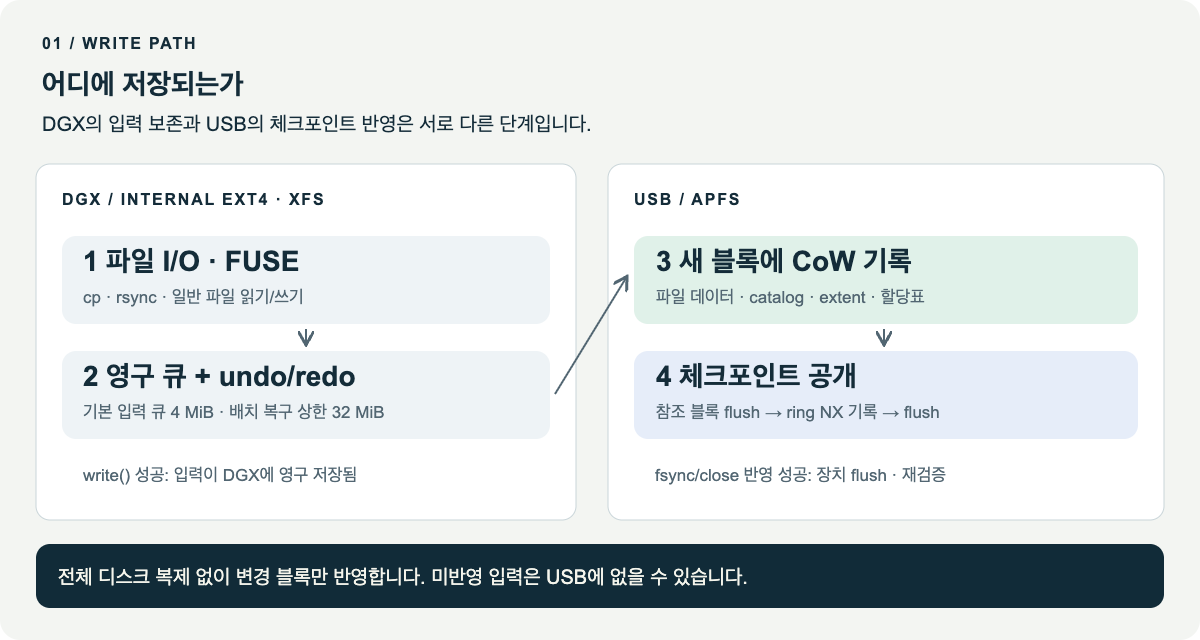
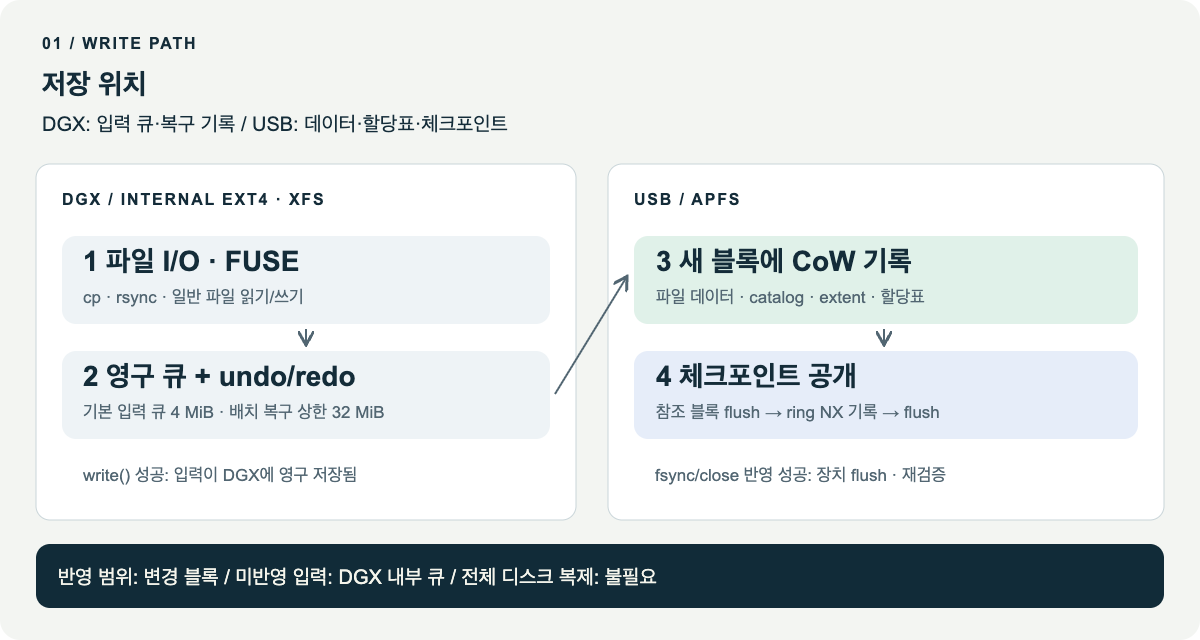
Use manual terminology throughout LAPFS documentation

Changed region(s): [[0.0308, 0.0938, 0.4933, 0.2188], [0.0308, 0.875, 0.6167, 0.9375]]

diff --git a/docs/architecture.html b/docs/architecture.html
@@ -1,6 +1,6 @@
 <!doctype html>
 <html lang="ko">
-<head><meta charset="utf-8"><meta name="viewport" content="width=device-width,initial-scale=1"><meta name="color-scheme" content="light"><title>LAPFS — 체크포인트로 이해하는 쓰기</title>
+<head><meta charset="utf-8"><meta name="viewport" content="width=device-width,initial-scale=1"><meta name="color-scheme" content="light"><title>LAPFS — 쓰기 구조 매뉴얼</title>
 <style>
 :root{--ink:#142c39;--muted:#526672;--line:#ccd6d9;--paper:#f3f5f2;--teal:#14634e;--mint:#e0f1e9;--blue:#244b87;--pale:#e6edf9;--amber:#845a17;--sand:#fbecd1}*{box-sizing:border-box}body{margin:0;background:var(--paper);color:var(--ink);font-family:-apple-system,BlinkMacSystemFont,"Segoe UI","Apple SD Gothic Neo",Arial,sans-serif;line-height:1.65}a{color:var(--blue);text-underline-offset:4px}button{font:inherit}button,a{touch-action:manipulation}button:focus-visible,a:focus-visible{outline:3px solid #bd641e;outline-offset:4px}header{background:#112b38;color:#f4f6ef;padding:26px max(24px,calc((100vw - 1120px)/2)) 58px}nav{display:flex;justify-content:space-between;align-items:center;gap:16px;padding-bottom:46px}nav .wordmark{font-size:24px;font-weight:800;letter-spacing:-1px}nav a{color:#c8e3dc;font-size:14px}nav .links{display:flex;gap:24px}.eyebrow{font-size:12px;letter-spacing:2.1px;font-weight:750;text-transform:uppercase}.hero{display:grid;grid-template-columns:1.1fr .9fr;gap:50px;align-items:end}h1{font-size:clamp(32px,4vw,52px);letter-spacing:-2px;line-height:1.28;margin:15px 0 22px}h1 em{font-style:normal;color:#a9e2cb}.lead{color:#c5d7dd;max-width:570px;font-size:16px}.hero-side{border-top:1px solid #587582;padding:19px 0 7px;font-size:15px;color:#d8e7e9}.hero-side strong{color:#a9e2cb;display:block;margin-bottom:8px}.badge{display:inline-block;border:1px solid #779c95;padding:3px 11px;border-radius:30px;font-size:12px;color:#c1e8d9}main{max-width:1120px;margin:auto;padding:0 24px 56px}.evidence{display:grid;grid-template-columns:repeat(4,1fr);border-bottom:1px solid var(--line);padding:27px 0}.metric{padding:0 22px;border-right:1px solid var(--line)}.metric:first-child{padding-left:0}.metric:last-child{border:0}.metric strong{font-size:32px;line-height:1.2;display:block;letter-spacing:-1px}.metric span{font-size:13px;color:var(--muted)}section{padding-top:54px}h2{font-size:28px;letter-spacing:-.7px;line-height:1.35;margin:8px 0 12px}h3{font-size:18px;margin:0 0 6px}p{margin:8px 0}.section-head{display:flex;justify-content:space-between;align-items:end;gap:25px;margin-bottom:23px}.section-head p{font-size:14px;max-width:490px;color:var(--muted)}.flow{display:grid;grid-template-columns:1fr 36px 1fr;align-items:stretch}.lane{background:white;border:1px solid var(--line);border-radius:14px;padding:23px}.lane>h3{font-size:13px;letter-spacing:1.1px}.between{display:grid;place-items:center;font-size:24px;color:var(--muted)}.node{padding:17px 19px;background:#eef3f6;border-radius:9px;margin-top:18px;position:relative}.node.teal{background:var(--mint)}.node.blue{background:var(--pale)}.node strong{display:block;font-size:18px;letter-spacing:-.3px}.node small{display:block;font-size:13px;color:#3e5967}.down{height:17px;text-align:center;color:var(--muted);font-size:18px;margin-bottom:-10px}.note{font-size:13px;color:var(--muted);margin-top:16px}.callout{background:#112b38;color:#e6f0ec;padding:18px 24px;border-radius:10px;margin-top:18px;font-size:15px}.callout b{color:#a9e2cb}.interactive{border:1px solid var(--line);border-radius:15px;overflow:hidden;background:white}.steps{display:none;grid-template-columns:repeat(4,1fr);background:#edf1ef;border-bottom:1px solid var(--line)}.js .steps{display:grid}.step{border:0;border-right:1px solid var(--line);background:none;padding:17px 12px;min-height:65px;cursor:pointer;color:var(--muted);font-size:14px;text-align:left}.step:last-child{border:0}.step[aria-pressed=true]{background:var(--ink);color:white}.step span{display:block;font-size:11px;letter-spacing:1px;opacity:.85}.state-body{padding:29px}.stage-label{font-size:12px;color:var(--teal);font-weight:750;letter-spacing:1px}.state-title{font-size:24px;letter-spacing:-.5px;margin:7px 0}.state-copy{font-size:15px;color:var(--muted);max-width:850px}.block-map{display:grid;grid-template-columns:1fr 1fr;gap:20px;margin:24px 0}.block-group{border:1px solid var(--line);border-radius:10px;padding:18px}.block-group h4{margin:0 0 12px;font-size:14px}.blocks{display:grid;grid-template-columns:repeat(4,1fr);gap:7px}.block{height:48px;border-radius:5px;background:#e5eaf0;border:1px solid #b8c8d4;display:grid;place-items:center;color:#32537a;font-family:monospace;font-size:12px}.block.new{background:var(--mint);border-color:#95c6b3;color:var(--teal)}.block.empty{background:#f7f8f6;border:1px dashed #aebcc0;color:#6b7e85}.block.partial{background:var(--sand);border-color:#d5b475;color:#724e14}.root-label{margin:12px 0 0;font-size:13px}.root-label strong{font-weight:700}.outcome{display:flex;gap:15px;align-items:start;background:#edf2f9;border-left:4px solid var(--blue);padding:15px 18px;font-size:14px}.outcome .icon{font-size:22px;line-height:1.3}.outcome b{display:block;font-size:15px}.outcome p{margin:3px 0}.controls{display:none;justify-content:space-between;margin-top:18px}.js .controls{display:flex}.controls button{min-height:44px;border:1px solid var(--line);border-radius:7px;padding:8px 16px;background:white;cursor:pointer;color:var(--ink)}.controls button:disabled{opacity:.45;cursor:default}.static-steps{font-size:14px;margin-top:24px}.static-steps li{margin:8px 0}.js .static-steps{display:none}.limits{display:grid;grid-template-columns:1fr 1fr;gap:24px;margin-top:20px}.limits>div{padding:22px 0;border-top:2px solid var(--ink)}.limits .remaining{border-color:#ab7928}.limits ul{font-size:14px;padding-left:20px;margin-bottom:0}.limits li{margin:7px 0}table{width:100%;border-collapse:collapse;font-size:14px;background:white}th,td{text-align:left;padding:14px 17px;border-bottom:1px solid var(--line);vertical-align:top}th{font-size:12px;letter-spacing:.5px;background:#e9efec}.sources{font-size:13px;line-height:1.9;color:var(--muted);border-top:1px solid var(--line);margin-top:42px;padding-top:23px}.sources a{display:inline-block;margin-right:18px}footer{font-size:12px;color:var(--muted);margin-top:19px}.print-only{display:none}
 @media(max-width:680px){header{padding:20px 22px 32px}nav{padding-bottom:26px}.hero{grid-template-columns:1fr;gap:17px}h1{letter-spacing:-1.3px;margin-top:12px}.hero-side{font-size:14px}.lead{font-size:15px}main{padding:0 20px 35px}.evidence{grid-template-columns:1fr 1fr;gap:21px 0}.metric{padding:0 14px}.metric:nth-child(odd){padding-left:0}.metric:nth-child(2){border:0}.metric strong{font-size:29px}.metric span{font-size:12px}section{padding-top:37px}.section-head{display:block;margin-bottom:19px}h2{font-size:25px}.flow{grid-template-columns:1fr}.between{height:35px;transform:rotate(90deg)}.lane{padding:19px}.node strong{font-size:17px}.callout{padding:16px 18px}.steps{grid-template-columns:1fr 1fr}.step{padding:12px;min-height:64px;border-bottom:1px solid var(--line)}.state-body{padding:20px}.state-title{font-size:21px}.block-map{grid-template-columns:1fr;gap:14px}.block-group{padding:15px}.block{height:43px}.outcome{padding:13px;gap:10px}.limits{grid-template-columns:1fr;gap:6px}th,td{padding:12px 10px;font-size:13px}.table-wrap{overflow:auto}.sources a{display:block}nav .links{gap:16px}}
@@ -8,22 +8,22 @@
 </style></head>
 <body>
 <header><nav aria-label="문서 탐색"><div class="wordmark">LAPFS <span class="badge">BETA 07</span></div><div class="links"><a href="https://github.com/JUNJOONHWAN/LAPFS">GitHub ↗</a><a href="#evidence">검증 근거 ↓</a></div></nav>
-<div class="hero"><div><div class="eyebrow">APFS ON LINUX · ENGINEERING FIELD GUIDE</div><h1>새 기록을 쓰고,<br><em>이전 상태를 남깁니다.</em></h1><p class="lead">새 체크포인트가 공개되기 전까지 기존 활성 상태를 보존하는 쓰기 구조. DGX Spark / GB10을 위한 APFS 읽기·쓰기 공개 베타입니다.</p></div><aside class="hero-side"><strong>이 페이지가 설명하는 것</strong>입력이 어디에 저장되는지, 언제 USB에 반영되는지, 그 사이 쓰기가 끊기면 어떤 체크포인트가 남는지를 보여줍니다.<p>구조 모식도이며 물리 전원 차단 인증을 뜻하지 않습니다.</p></aside></div></header>
+<div class="hero"><div><div class="eyebrow">APFS ON LINUX · TECHNICAL MANUAL</div><h1>APFS 읽기·쓰기<br><em>체크포인트 CoW</em></h1><p class="lead">대상: DGX Spark / GB10 · Linux ARM64<br>구조: 영구 입력 큐 · 데이터/할당표 CoW · 체크포인트 공개</p></div><aside class="hero-side"><strong>문서 범위</strong>저장 위치 · 반영 순서 · 중단 시점별 체크포인트 · 검증 결과<p>문서 유형: 구조 모식도<br>물리 전원 차단: 미검증</p></aside></div></header>
 <main><div class="evidence" aria-label="beta.7 검증 요약"><div class="metric"><strong>430 / 430</strong><span>Mac 중단 이미지 검사</span></div><div class="metric"><strong>296</strong><span>Rust 시험 통과</span></div><div class="metric"><strong>3회</strong><span>Mac ↔ Linux 왕복</span></div><div class="metric"><strong>260 MiB+</strong><span>다중 영역 파일 · SHA 일치</span></div></div>
-<section aria-labelledby="flow-title"><div class="section-head"><div><div class="eyebrow">01 / STORAGE BOUNDARIES</div><h2 id="flow-title">입력 보존과 APFS 반영을 나눕니다.</h2></div><p>전체 드라이브를 DGX에 복제하지 않습니다. 작은 영구 큐에 모은 입력을 APFS의 새 블록으로 반영합니다.</p></div>
-<div class="flow"><div class="lane"><h3>DGX · 내부 EXT4 / XFS</h3><div class="node"><strong>1. 파일 I/O → FUSE</strong><small>cp · rsync · 일반 파일 읽기/쓰기</small></div><div class="down" aria-hidden="true">↓</div><div class="node"><strong>2. 영구 입력 큐 + undo/redo</strong><small>기본 입력 큐 4 MiB · 배치 복구 상한 32 MiB</small></div><p class="note"><b>write() 성공</b>은 입력이 DGX에 영구 저장됐다는 뜻입니다. USB 반영은 다음 단계입니다.</p></div><div class="between" aria-hidden="true">→</div><div class="lane"><h3>USB · APFS 컨테이너</h3><div class="node teal"><strong>3. 변경 내용을 새 블록에 기록</strong><small>데이터 · catalog · extent · 할당 bitmap / CIB</small></div><div class="down" aria-hidden="true">↓</div><div class="node blue"><strong>4. 새 체크포인트 공개</strong><small>참조 블록 flush → ring NX 기록 → flush</small></div><p class="note"><b>fsync/close 반영 성공</b>은 큐 반영·장치 flush·변경 블록 재검증을 포함합니다.</p></div></div><div class="callout"><b>핵심 변화:</b> 파일 데이터와 공간 할당표를 모두 CoW로 기록합니다. 기존 bootstrap과 이전 spaceman을 덮어쓰던 경로를 제거했습니다.</div></section>
-<section aria-labelledby="state-heading"><div class="section-head"><div><div class="eyebrow">02 / CHECKPOINT PUBLICATION</div><h2 id="state-heading">쓰기가 끊기는 시점을 골라보세요.</h2></div><p>그림의 블록 수는 개념 표현입니다. 실제 블록 배치·처리 시간·성능 수치를 나타내지 않습니다.</p></div>
+<section aria-labelledby="flow-title"><div class="section-head"><div><div class="eyebrow">01 / STORAGE BOUNDARIES</div><h2 id="flow-title">저장 위치</h2></div><p>DGX: 입력 큐·복구 기록<br>USB: 변경 데이터·할당표·체크포인트<br>전체 드라이브 복제: 불필요</p></div>
+<div class="flow"><div class="lane"><h3>DGX · 내부 EXT4 / XFS</h3><div class="node"><strong>1. 파일 I/O → FUSE</strong><small>cp · rsync · 일반 파일 읽기/쓰기</small></div><div class="down" aria-hidden="true">↓</div><div class="node"><strong>2. 영구 입력 큐 + undo/redo</strong><small>기본 입력 큐 4 MiB · 배치 복구 상한 32 MiB</small></div><p class="note"><b>write() 성공:</b> DGX 입력 영구 저장<br>USB 반영: 별도 단계</p></div><div class="between" aria-hidden="true">→</div><div class="lane"><h3>USB · APFS 컨테이너</h3><div class="node teal"><strong>3. 변경 내용을 새 블록에 기록</strong><small>데이터 · catalog · extent · 할당 bitmap / CIB</small></div><div class="down" aria-hidden="true">↓</div><div class="node blue"><strong>4. 새 체크포인트 공개</strong><small>참조 블록 flush → ring NX 기록 → flush</small></div><p class="note"><b>fsync/close 반영 성공:</b> 큐 반영 · 장치 flush · 변경 블록 재검증</p></div></div><div class="callout"><b>beta.7 변경:</b> 데이터·할당표 CoW 추가 / 기존 bootstrap·이전 spaceman 덮어쓰기 제거</div></section>
+<section aria-labelledby="state-heading"><div class="section-head"><div><div class="eyebrow">02 / CHECKPOINT PUBLICATION</div><h2 id="state-heading">쓰기 단계 · 중단 결과</h2></div><p>블록 표시: 개념 모형<br>실제 블록 수·배치·처리 시간과 무관</p></div>
 <div class="interactive"><div class="steps" aria-label="쓰기 단계 선택"><button class="step" data-step="0" aria-pressed="true"><span>01 · QUEUED</span>입력 보존</button><button class="step" data-step="1" aria-pressed="false"><span>02 · COPY ON WRITE</span>새 블록 기록</button><button class="step" data-step="2" aria-pressed="false"><span>03 · PUBLISHING</span>새 NX 기록</button><button class="step" data-step="3" aria-pressed="false"><span>04 · COMMITTED</span>최종 flush 완료</button></div>
-<div class="state-body"><div class="stage-label" id="phase">단계 1 / 4</div><h3 class="state-title" id="state-title">입력은 DGX에, 기존 상태는 APFS에.</h3><p class="state-copy" id="state-copy">애플리케이션 입력이 내부 영구 큐에 저장됩니다. 이 입력은 아직 USB에 반영되지 않았을 수 있습니다.</p><div class="block-map" aria-label="이전 상태와 새 블록의 개념도"><div class="block-group"><h4>이전 체크포인트가 가리키는 블록</h4><div class="blocks"><div class="block">DATA</div><div class="block">TREE</div><div class="block">MAP</div><div class="block">NX</div></div><p class="root-label" id="old-label"><strong>활성 상태</strong> · 기존 블록 유지</p></div><div class="block-group"><h4>새 체크포인트를 위한 블록</h4><div class="blocks" id="new-blocks"><div class="block empty">DATA′</div><div class="block empty">TREE′</div><div class="block empty">MAP′</div><div class="block empty">NX′</div></div><p class="root-label" id="new-label">아직 USB에 기록하지 않은 상태</p></div></div>
-<div class="outcome" aria-live="polite" aria-atomic="true"><div class="icon" aria-hidden="true">↳</div><div><b id="outcome-title">이때 중단되면: 이전 체크포인트</b><p id="outcome-copy">Mac은 기존 상태를 읽습니다. 큐에만 있는 새 입력은 DGX에 남으므로 USB에 없을 수 있습니다.</p></div></div><div class="controls"><button id="prev" disabled>← 이전 단계</button><button id="next">다음 단계 →</button></div><ol class="static-steps"><li>입력 보존: 기존 APFS 상태가 유지되며 새 입력은 DGX 큐에만 있을 수 있습니다.</li><li>새 블록 기록: 기존 체크포인트는 이전 블록을 계속 가리킵니다.</li><li>새 NX 기록: checksum이 유효한 이전 또는 새 체크포인트로 열립니다.</li><li>최종 flush 완료: 새 상태가 반영됩니다. 장치가 flush를 정직하게 처리한다는 전제입니다.</li></ol></div></div><p class="note">미반영 데이터 보존과 파일시스템 구조 보존은 다릅니다. 이전 체크포인트는 영구 스냅샷이나 별도 백업이 아닙니다.</p></section>
-<section id="evidence" aria-labelledby="evidence-title"><div class="eyebrow">03 / EVIDENCE, NOT A CERTIFICATION</div><h2 id="evidence-title">검사한 범위와 남은 범위</h2><div class="table-wrap"><table><thead><tr><th scope="col">시험</th><th scope="col">확인한 내용</th></tr></thead><tbody><tr><th scope="row">430개 중단 이미지</th><td>318개 I/O 경계 + 112개 부분 NX 기록. DGX 복구 없이 Mac fsck, 원본 104개 SHA, 변경 대상의 이전/새 상태 일치.</td></tr><tr><th scope="row">파일 작업 / rsync</th><td>FUSE 27개 commit 배치, rsync 5단계. 내용·권한·나노초 시간·링크·삭제 결과를 Mac에서 확인.</td></tr><tr><th scope="row">OS 간 왕복</th><td>Mac이 쓴 파일을 Linux에서 수정한 뒤 Mac에서 3회 검사. fsck·내용·권한 통과.</td></tr><tr><th scope="row">여러 할당 영역</th><td>272,629,778바이트 파일을 새 512 MiB APFS 이미지에 기록. Mac fsck 및 전체 파일 SHA 일치.</td></tr></tbody></table></div><div class="limits"><div><h3>현재 지원하는 핵심 작업</h3><ul><li>일반 파일 생성·복사·범위 수정·append·삭제</li><li>mkdir / 빈 폴더 rmdir / 같은 폴더의 파일 rename</li><li>chmod / atime·mtime / 심볼릭 링크 생성·삭제</li><li>영구 큐·복구 기록·분리된 오류 로그·정상 분리 도구</li></ul></div><div class="remaining"><h3>아직 같은 수준이라고 말할 수 없는 것</h3><ul><li>실제 케이블 분리·전원 차단·USB 캐시 거짓 성공</li><li>전체 APFS/POSIX 호환, 암호화·스냅샷·공유 파일 변경</li><li>TB급 장기 반복 쓰기와 여러 USB 브리지 조합</li><li>Apple 상용 드라이버와 동일한 인증·지원 범위</li></ul></div></div></section>
-<div class="sources"><b>beta.7 · 소스와 검증 영수증</b><br><a href="https://github.com/JUNJOONHWAN/LAPFS/blob/main/docs/NATIVE_COW_IMPACT.md">구현·변경 영향 보고서 ↗</a><a href="https://github.com/JUNJOONHWAN/LAPFS/blob/main/docs/validation/native-cow-beta7.json">시험·바이너리 SHA 영수증 ↗</a><a href="https://github.com/JUNJOONHWAN/LAPFS/blob/main/docs/LIMITATIONS.md">지원 제한 ↗</a><a href="https://github.com/JUNJOONHWAN/LAPFS/blob/main/docs/RECOVERY.md">정상 분리와 복구 ↗</a></div><footer>LAPFS · GPL-3.0-only · 이 HTML은 오프라인으로 동작합니다. Apple/NVIDIA와 제휴하거나 인증받은 제품이 아닙니다.</footer></main>
+<div class="state-body"><div class="stage-label" id="phase">단계 1 / 4</div><h3 class="state-title" id="state-title">입력 큐 저장</h3><p class="state-copy" id="state-copy">입력: DGX 내부 영구 큐 / USB 상태: 기존 체크포인트 / 새 입력: 미반영 가능</p><div class="block-map" aria-label="이전 상태와 새 블록의 개념도"><div class="block-group"><h4>이전 체크포인트 참조 블록</h4><div class="blocks"><div class="block">DATA</div><div class="block">TREE</div><div class="block">MAP</div><div class="block">NX</div></div><p class="root-label" id="old-label"><strong>활성 상태</strong> · 기존 블록 유지</p></div><div class="block-group"><h4>새 체크포인트 블록</h4><div class="blocks" id="new-blocks"><div class="block empty">DATA′</div><div class="block empty">TREE′</div><div class="block empty">MAP′</div><div class="block empty">NX′</div></div><p class="root-label" id="new-label">USB 미기록</p></div></div>
+<div class="outcome" aria-live="polite" aria-atomic="true"><div class="icon" aria-hidden="true">↳</div><div><b id="outcome-title">중단 결과: 이전 체크포인트</b><p id="outcome-copy">Mac 접근: 기존 상태 / 미반영 입력: DGX 큐 / USB 포함 여부: 미보장</p></div></div><div class="controls"><button id="prev" disabled>← 이전 단계</button><button id="next">다음 단계 →</button></div><ol class="static-steps"><li>입력 보존: 기존 APFS 상태 유지 / 새 입력: DGX 큐</li><li>새 블록 기록: 기존 체크포인트·참조 블록 보존</li><li>새 NX 기록: checksum 기준 이전/새 체크포인트 선택</li><li>최종 flush 완료: 새 상태 반영 / 전제: 정상적인 장치 flush</li></ol></div></div><p class="note">구분: 미반영 입력 보존 / 파일시스템 구조 보존 · 이전 체크포인트: 영구 스냅샷·별도 백업 아님</p></section>
+<section id="evidence" aria-labelledby="evidence-title"><div class="eyebrow">03 / EVIDENCE, NOT A CERTIFICATION</div><h2 id="evidence-title">검증 범위</h2><div class="table-wrap"><table><thead><tr><th scope="col">시험</th><th scope="col">확인한 내용</th></tr></thead><tbody><tr><th scope="row">430개 중단 이미지</th><td>318개 I/O 경계 + 112개 부분 NX 기록 / DGX 복구 미사용 / Mac fsck·원본 104개 SHA·변경 대상 이전/새 상태 일치</td></tr><tr><th scope="row">파일 작업 / rsync</th><td>FUSE 27개 commit 배치 / rsync 5단계 / Mac 검사: 내용·권한·나노초 시간·링크·삭제</td></tr><tr><th scope="row">OS 간 왕복</th><td>Mac 기록 → Linux 수정 → Mac 검사 / 3회 / fsck·내용·권한 통과</td></tr><tr><th scope="row">여러 할당 영역</th><td>파일 272,629,778바이트 / APFS 이미지 512 MiB / Mac fsck 통과·전체 SHA 일치</td></tr></tbody></table></div><div class="limits"><div><h3>지원 작업</h3><ul><li>일반 파일 생성·복사·범위 수정·append·삭제</li><li>mkdir / 빈 폴더 rmdir / 같은 폴더의 파일 rename</li><li>chmod / atime·mtime / 심볼릭 링크 생성·삭제</li><li>영구 큐·복구 기록·분리된 오류 로그·정상 분리 도구</li></ul></div><div class="remaining"><h3>미검증·미지원</h3><ul><li>실제 케이블 분리·전원 차단·USB 캐시 거짓 성공</li><li>전체 APFS/POSIX 호환, 암호화·스냅샷·공유 파일 변경</li><li>TB급 장기 반복 쓰기와 여러 USB 브리지 조합</li><li>Apple 상용 드라이버와 동일한 인증·지원 범위</li></ul></div></div></section>
+<div class="sources"><b>beta.7 · 소스와 검증 영수증</b><br><a href="https://github.com/JUNJOONHWAN/LAPFS/blob/main/docs/NATIVE_COW_IMPACT.md">구현·변경 영향 보고서 ↗</a><a href="https://github.com/JUNJOONHWAN/LAPFS/blob/main/docs/validation/native-cow-beta7.json">시험·바이너리 SHA 영수증 ↗</a><a href="https://github.com/JUNJOONHWAN/LAPFS/blob/main/docs/LIMITATIONS.md">지원 제한 ↗</a><a href="https://github.com/JUNJOONHWAN/LAPFS/blob/main/docs/RECOVERY.md">정상 분리와 복구 ↗</a></div><footer>LAPFS · GPL-3.0-only · 오프라인 HTML · Apple/NVIDIA 제휴·인증 없음</footer></main>
 <script>
 const states=[
- {title:'입력은 DGX에, 기존 상태는 APFS에.',copy:'애플리케이션 입력이 내부 영구 큐에 저장됩니다. 이 입력은 아직 USB에 반영되지 않았을 수 있습니다.',classes:['empty','empty','empty','empty'],old:'활성 상태 · 기존 블록 유지',fresh:'아직 USB에 기록하지 않은 상태',result:'이때 중단되면: 이전 체크포인트',detail:'Mac은 기존 상태를 읽습니다. 큐에만 있는 새 입력은 DGX에 남으므로 USB에 없을 수 있습니다.'},
- {title:'기존 블록을 보존하며 새 블록을 씁니다.',copy:'파일 데이터·트리·할당표를 별도 블록에 기록합니다. 기존 체크포인트가 참조하는 블록은 그대로 남습니다.',classes:['new','new','partial','empty'],old:'활성 상태 · 이전 블록을 계속 참조',fresh:'새 데이터·할당표 기록 중 · 아직 공개 전',result:'이때 중단되면: 이전 체크포인트',detail:'부분적으로 기록한 새 블록을 활성 체크포인트가 가리키지 않습니다. 검사한 이미지에서는 원본 파일 내용과 구조가 유지됐습니다.'},
- {title:'참조 블록을 flush한 뒤 새 NX를 기록합니다.',copy:'새 체크포인트가 가리킬 블록을 먼저 flush합니다. 그 다음 descriptor ring에 새 NX를 기록하며 기존 bootstrap은 유지합니다.',classes:['new','new','new','partial'],old:'이전 체크포인트 보존',fresh:'새 NX 기록 중 · checksum 판별',result:'이때 중단되면: 이전 또는 새 체크포인트',detail:'일부만 기록된 NX는 유효한 새 체크포인트로 취급하지 않습니다. 512바이트 경계의 부분 NX 기록 112개 사례를 Mac에서 검사했습니다.'},
- {title:'새 체크포인트를 flush하고 재검증합니다.',copy:'새 NX를 flush한 뒤 체크포인트를 다시 읽어 checksum과 식별자를 검증합니다. 장치가 flush를 올바르게 처리한다는 전제가 필요합니다.',classes:['new','new','new','new'],old:'이전 상태 · 영구 백업/스냅샷은 아님',fresh:'새 활성 체크포인트 · 반영 완료',result:'이때 중단되면: 새 체크포인트를 사용',detail:'반영된 새 내용을 읽습니다. 실제 전원 차단, USB 펌웨어 결함과 거짓 flush 성공은 이 이미지 시험이 인증하지 않습니다.'}
+ {title:'입력 큐 저장',copy:'입력: DGX 내부 영구 큐 / USB 상태: 기존 체크포인트 / 새 입력: 미반영 가능',classes:['empty','empty','empty','empty'],old:'활성 상태 · 기존 블록 유지',fresh:'USB 미기록',result:'중단 결과: 이전 체크포인트',detail:'Mac 접근: 기존 상태 / 미반영 입력: DGX 큐 / USB 포함 여부: 미보장'},
+ {title:'새 블록 기록 · CoW',copy:'새 기록: 파일 데이터·트리·할당표 / 보존 대상: 기존 체크포인트·참조 블록',classes:['new','new','partial','empty'],old:'활성 상태 · 이전 블록 참조',fresh:'새 데이터·할당표 기록 중 · 아직 공개 전',result:'중단 결과: 이전 체크포인트',detail:'활성 참조: 기존 블록 / 부분 기록: 비활성 새 블록 / 이미지 검사: 원본 내용·구조 유지'},
+ {title:'참조 블록 flush · 새 NX 기록',copy:'순서: 참조 블록 flush → descriptor ring NX 기록 / 기존 bootstrap: 유지',classes:['new','new','new','partial'],old:'이전 체크포인트 보존',fresh:'새 NX 기록 중 · checksum 판별',result:'중단 결과: 이전 또는 새 체크포인트',detail:'NX 유효성: checksum 판별 / 부분 기록 시험: 512바이트 경계 112개 / Mac 검사: 통과'},
+ {title:'새 NX flush · 재검증',copy:'검사: 새 NX checksum·식별자 / 순서: flush → 다시 읽기 / 전제: 정상적인 장치 flush',classes:['new','new','new','new'],old:'이전 상태 · 영구 백업/스냅샷은 아님',fresh:'새 활성 체크포인트 · 반영 완료',result:'중단 결과: 새 체크포인트',detail:'접근 내용: 반영된 새 상태 / 미검증: 물리 전원 차단·USB 펌웨어 결함·거짓 flush 성공'}
 ];
 let step=Number(new URL(location.href).searchParams.get('step')||0);if(!Number.isInteger(step)||step<0||step>3)step=0;
 const buttons=[...document.querySelectorAll('[data-step]')];

diff --git a/README.md b/README.md
@@ -1,5 +1,4 @@
-<p align="center"><img src="docs/assets/lapfs-banner.svg" alt="LAPFS — buffered APFS access for Linux ARM64" width="100%"></p>
-
+<p align="center"><img src="docs/assets/lapfs-banner.svg" alt="LAPFS beta.7 — Linux ARM64 APFS 읽기·쓰기, 데이터·할당표 CoW" width="100%"></p>
 <p align="center">
   <a href="https://github.com/JUNJOONHWAN/LAPFS/releases"><img alt="Beta" src="https://img.shields.io/badge/release-0.3.0--beta.7-f5b84b"></a>
   <img alt="Platform" src="https://img.shields.io/badge/target-DGX%20Spark%20%2F%20Linux%20ARM64-72d6c9">
@@ -8,171 +7,203 @@
 
 # LAPFS
 
-**Linux에서 APFS를 읽고 씁니다. 작은 영구 큐와 데이터·할당표 CoW로 중단 시 일관성을 보강한 공개 베타입니다.**
+**APFS 읽기·쓰기 · 영구 입력 큐 · 데이터/할당표 CoW · Linux ARM64 공개 베타**
 
-Designed for DGX Spark / GB10: readable APFS volumes, bounded durable write buffering, explicit recovery, and separate error logs. The canonical source and release build are maintained on DGX; macOS provides independent APFS validation.
+| 항목 | 내용 |
+|---|---|
+| 대상 | DGX Spark / GB10 · Linux ARM64 · FUSE3 |
+| 기준 소스·빌드 | DGX |
+| 독립 검증 | macOS `fsck_apfs` · 파일 SHA |
+| 배포 상태 | 공개 실험 베타 · 상용 인증 없음 |
+| 데이터 조건 | 별도 백업 필요 · 유일한 사본 사용 부적합 |
+| 미검증 | 물리 전원 차단 · USB 브리지 캐시 신뢰성 · 장기 실장치 부하 |
 
-| 430 / 430 | 296 | 3회 |
-|:---:|:---:|:---:|
-| Mac 중단 이미지 검사 | Rust 시험 통과 | Mac ↔ Linux 왕복 |
+[릴리스](https://github.com/JUNJOONHWAN/LAPFS/releases/tag/v0.3.0-beta.7) · [HTML 매뉴얼 다운로드](https://github.com/JUNJOONHWAN/LAPFS/releases/download/v0.3.0-beta.7/LAPFS-beta7-architecture.html) · [HTML 소스](docs/architecture.html) · [English overview](docs/OVERVIEW.md)
 
-> [!IMPORTANT]
-> **beta.7은 파일 데이터와 공간 할당표까지 CoW로 기록합니다.** 새 체크포인트를 공개하기 전 기존 활성 상태를 보존하도록 바꿨습니다. 위 숫자는 이미지·소프트웨어 시험 결과이며, 실제 USB 전원 차단이나 상용 드라이버 수준의 인증을 뜻하지 않습니다. 중요한 데이터의 유일한 사본에 사용하지 마세요.
+[저장 위치](#저장-위치) · [중단 처리](#중단-처리) · [사양](#사양) · [설치·시험](#설치시험) · [지원 제한](#지원-제한) · [검증](#검증)
 
-**[HTML 가이드 다운로드 · 오프라인 단계별 보기](https://github.com/JUNJOONHWAN/LAPFS/releases/download/v0.3.0-beta.7/LAPFS-beta7-architecture.html)** · [HTML 소스](docs/architecture.html) · [검증 영수증](docs/validation/native-cow-beta7.json)
+## 저장 위치
 
-[시작하기](#빠른-시작) · [구조](#구조) · [중단 시 동작](#중단-시-동작) · [사양](#목표와-현재-사양) · [지원 제한](docs/LIMITATIONS.md) · [정상 분리·복구](docs/RECOVERY.md) · [English](docs/OVERVIEW.md)
-
-## 왜 만들었나
-
-APFS 외장 저장장치를 Linux ARM64에서 다루되, 내부 디스크에 전체 드라이브나 큰 파일을 복제하지 않는 것이 목표입니다. 쓰기 성공 응답 전에 입력을 영구 저장하고, 작은 배치로 반영하고, 중단된 작업의 복구 기록을 유지합니다.
-
-## 구조
-
-![DGX 내부 영구 큐와 USB APFS의 CoW·체크포인트 반영 경계를 보여주는 구조도](docs/assets/lapfs-architecture.svg)
+![DGX 입력 큐·복구 기록과 USB APFS 데이터·체크포인트](docs/assets/lapfs-architecture.svg)
 
 [SVG 원본](docs/assets/lapfs-architecture.svg) · [PNG 그림](docs/assets/lapfs-architecture.png)
 
+| 위치 | 저장 내용 | 기준 |
+|---|---|---|
+| DGX 내부 ext4/XFS | 입력 큐 · undo/redo · 복구 상태 | 기본 입력 큐 4 MiB · 배치 복구 상한 32 MiB |
+| 외장 APFS | 파일 데이터 · catalog · extent · 할당표 · 체크포인트 | 변경 블록 CoW · 참조 블록 flush · 새 NX 공개 |
+| 별도 오류 로그 | 작업명 · errno · 오류 정보 | 현재 파일 + 보관 3개 · 약 8 MiB |
+
 <details>
-<summary>구조도 텍스트 소스 · Mermaid</summary>
+<summary>구조도 소스 · Mermaid</summary>
 
 ```mermaid
 flowchart LR
-    App["cp / rsync -a / 일반 파일 I/O"] --> FUSE["읽기·쓰기 FUSE\ndirect I/O"]
-    FUSE --> Queue["DGX 내부 ext4/XFS\n영구 입력 큐 · 기본 4 MiB"]
-    Queue --> Trigger["4 MiB / fsync / close\n메타데이터 변경 / 정상 해제"]
-    Trigger --> Journal["외부 undo + redo\nflush · 블록 재검증"]
-    Journal --> COW["파일 데이터 · catalog · extent CoW"]
-    COW --> Space["할당 bitmap · CIB · 내부 pool bitmap CoW"]
-    Space --> Barrier["참조 블록 flush"]
-    Barrier --> Checkpoint["새 ring 체크포인트 기록 · flush"]
-    Checkpoint --> APFS["지원 조건을 통과한 APFS"]
-    Queue -. "중단 후 재개" .-> Recover["mount-recover"]
+    IO["파일 I/O · FUSE"] --> Queue["DGX 영구 입력 큐"]
+    Queue --> Journal["undo / redo"]
+    Journal --> COW["APFS 데이터·할당표 CoW"]
+    COW --> Flush["참조 블록 flush"]
+    Flush --> NX["ring NX 기록 · flush"]
+    Queue -. "복구" .-> Recover["mount-recover"]
     Recover --> Journal
-    FUSE -. "작업·errno" .-> Log["별도 JSONL 오류 로그\n회전 보관 약 8 MiB"]
+    IO -. "진단" .-> Log["JSONL 오류 로그"]
 ```
 
 </details>
 
-| 응답 시점 | 보장하는 범위 |
+## 중단 처리
+
+![NX 공개 전·공개 중·flush 완료 시점별 체크포인트](docs/assets/lapfs-checkpoint.svg)
+
+| 시점 | 상태 |
 |---|---|
-| `write()` 성공 | 입력 payload와 큐 메타데이터가 **DGX 영구 저장소에 저장**됨. USB에 모두 반영됐다는 뜻은 아님 |
-| `fsync()` / close-flush 성공 | 해당 시점까지 큐 반영, 장치 flush, 변경 블록 읽기 재검증, commit 기록 완료 |
-| 중단 / 오류 | 이전 또는 새 체크포인트 보존을 목표로 CoW 반영. 미반영 입력과 복구 기록은 DGX에 보존하며, 검증 범위는 아래 보고서 참고 |
-| 정상 해제 | 마지막 반영 후 소유권 해제. 해제 오류가 나면 복구 필요 |
+| `write()` 성공 | DGX 입력 영구 저장 · USB 미반영 가능 |
+| 새 NX 공개 전 | 기존 활성 체크포인트·참조 블록 보존 |
+| 새 NX 기록 중 | checksum 기준 이전/새 체크포인트 선택 |
+| `fsync()` / close 반영 성공 | 큐 반영 · 장치 flush · 변경 블록 재검증 · commit 기록 |
+| 정상 해제 | 잔여 반영 · 소유권 해제 |
+| 해제·복구 오류 | 큐·저널·소유권 기록 보존 · 강제 우회 금지 |
 
-**beta.7은 파일 데이터와 공간 할당표까지 CoW로 기록합니다.** 새 체크포인트를 공개하기 전 기존 활성 체크포인트를 보존하고, bootstrap 블록과 이전 spaceman을 덮어쓰지 않습니다. DGX 저널 복구 없이 Mac에서 검사한 중단·부분 NX 기록 이미지의 결과는 [검증 보고서](docs/NATIVE_COW_IMPACT.md)에 있습니다. 외부 큐에만 저장된 최신 입력은 USB에 없을 수 있으며, 실제 전원 차단·USB 캐시 신뢰성은 아직 인증하지 않았습니다. 정상 분리 절차를 계속 사용하세요.
+- 전제: 지원 APFS 형식 · 정상적인 장치 flush
+- 미반영 입력 위치: DGX 큐
+- 이전 체크포인트: 영구 스냅샷·별도 백업 아님
+- beta.7 변경: 데이터·할당표 CoW / bootstrap·이전 spaceman 덮어쓰기 제거
+- 근거: [구현·변경 영향·중단 시험](docs/NATIVE_COW_IMPACT.md)
 
-## 중단 시 동작
+## 사양
 
-![새 NX 공개 전에는 이전 체크포인트, 공개 중에는 이전 또는 새 체크포인트, 최종 flush 뒤에는 새 체크포인트를 사용한다](docs/assets/lapfs-checkpoint.svg)
+| 항목 | beta.7 |
+|---|---|
+| 읽기 | 일반 파일 · 디렉터리 · 심볼릭 링크 · 4 GiB 초과 범위 읽기 |
+| 파일 쓰기 | 생성 · 복사 · 범위 수정 · append · 닫힌 파일 삭제 |
+| 디렉터리 | mkdir · 빈 폴더 rmdir |
+| 이름 변경 | 같은 폴더 내 파일 rename/replace · 닫힌 대상 |
+| 메타데이터 | chmod · atime/mtime · 심볼릭 링크 생성/삭제 |
+| 쓰기 큐 | 기본 데이터 상한 4 MiB |
+| 배치 복구 기록 | undo + redo 상한 32 MiB |
+| 내부 여유 공간 | 1 GiB 예비 공간 + 96 MiB 작업 여유 검사 |
+| 전체 파일·디스크 staging | 불필요 |
+| 총 RAM 상한 | 미인증 |
+| 오류 로그 | 2 MiB × 4개 · 약 8 MiB |
+| USB 3.2 지속 처리량 | 미측정 |
+| macOS 역할 | 독립 검사 · macOS FUSE 드라이버 미제공 |
 
-- **공개 전:** 기존 활성 체크포인트를 유지합니다. DGX 큐에만 있는 입력은 USB에 없을 수 있습니다.
-- **공개 중:** 유효한 checksum을 가진 이전 또는 새 체크포인트로 열립니다.
-- **반영 완료:** 새 상태를 사용합니다. 이전 체크포인트는 영구 백업이나 스냅샷이 아닙니다.
+공간 수치: 계층별 제한 · 전체 사용량 보장 아님 · 실패 세션/복구 기록 자동 삭제 없음
 
-실제 사용에서는 `scripts/safe-eject.py`로 정상 해제하세요. 이 그림은 지원 형식과 올바른 장치 flush 동작을 전제로 합니다. [구현·중단 시험의 정확한 범위](docs/NATIVE_COW_IMPACT.md)
+## 설치·시험
 
-## 목표와 현재 사양
+### 요구 환경
 
-| 항목 | 현재 beta.7 | 목표 / 남은 검증 |
-|---|---|---|
-| 기준 실행 환경 | DGX Spark / GB10, Linux ARM64, FUSE3 | 다른 배포판·USB 브리지 조합 검증 |
-| 읽기 | 일반 파일, 디렉터리, 링크 조회, 큰 파일 범위 읽기 | 암호화·압축 스트리밍 확대 |
-| 쓰기 | 생성·복사·범위 수정·append·파일 삭제·mkdir·빈 폴더 삭제(rmdir)·같은 폴더 파일 rename/replace·심볼릭 링크 생성/삭제·chmod·atime/mtime | 더 넓은 POSIX/APFS 기능 |
-| 쓰기 큐 | 기본 데이터 상한 **4 MiB** | 처리량·동시 작업 성능 측정 |
-| 배치 복구 데이터 | undo + redo **32 MiB** 상한 | 대형 catalog에서 지원 범위 검증 |
-| 내부 저장공간 | **1 GiB 여유 + 96 MiB 작업 여유 검사** | 최저공간·장기 반복 부하 실측 |
-| 메모리 | 전체 파일/드라이브 staging 없음 | catalog·프로세스 총 RAM 상한은 미인증 |
-| 오류 로그 | 2 MiB × 현재1 + 보관3, 약 **8 MiB** | 현장 장애 분류 확장 |
-| 성능 | 합성 이미지: 5,000개 원본 보존 + 생성/변경/삭제 121.9초 | USB 3.2 지속 처리량 수치 **미제시** |
-| macOS | 독립 `fsck_apfs` / 파일 SHA 검증 | macOS FUSE 제품 제공 안 함 |
+- Linux ARM64 · `/dev/fuse` · `fusermount3`
+- Rust/Cargo · C 링커 · Python 3
+- DGX 검증 도구: Rust 1.92.0
+- 배포 바이너리: glibc 2.39 이상 · libgcc_s
+- 시험 경로: 로컬 ext4/XFS · 1 GiB 이상 여유
+- 합성 fixture: 압축 해제 128 MiB
 
-공간 숫자는 각 계층의 제한이며 전체 작업 공간의 고정 사용량이나 파일시스템 전체 용량 보장은 아닙니다. 실패한 세션/복구 기록은 자동 삭제하지 않습니다.
-
-## 빠른 시작
-
-Linux ARM64, Rust/Cargo (DGX 검증: Rust 1.92.0), C 링커, Python 3, FUSE3(`/dev/fuse`, `fusermount3`)가 필요합니다. 먼저 **함께 제공한 합성 이미지**로 시험하세요.
+### 소스 빌드
 
 ```bash
 git clone https://github.com/JUNJOONHWAN/LAPFS.git
 cd LAPFS
 cargo build --locked --offline --release --bin lapfs
 ./target/release/lapfs --version
+```
 
-# 새 시험 이미지 생성 → 실제 RW FUSE 기능/오류/강제종료 복구 검증
+### 합성 이미지 검사
+
+```bash
 python3 tests/verify_linux_fuse.py --binary target/release/lapfs
 python3 tests/verify_rsync_archive.py --binary target/release/lapfs
 ```
 
-배포 바이너리는 GNU/Linux ARM64, **glibc 2.39 이상과 libgcc_s**가 필요합니다. 다른 환경은 소스 빌드를 사용하세요.
+출력 경로: `evidence/` · 대상: 별도 합성 이미지 · 실제 USB 변경 없음
 
-이 검사는 `evidence/`에 별도 이미지를 만들고 결과를 남깁니다. 영구 큐 때문에 해당 위치는 **로컬 ext4/XFS**여야 합니다. 관리자 권한 없이 동작하는 FUSE 설정과 1 GiB 이상의 여유가 필요합니다. fixture 압축 해제 크기는 128 MiB입니다.
-
-<details>
-<summary><b>이미지 직접 마운트</b></summary>
+### 시험 이미지 마운트
 
 ```bash
 mkdir -p work/mount
-# 새 파일에만 압축을 풉니다. 기존 작업 이미지를 덮어쓰지 마세요.
 python3 - <<'PY'
 import gzip, shutil
 with gzip.open('fixtures/block-test.dmg.gz', 'rb') as src, open('work/test.dmg', 'xb') as dst:
     shutil.copyfileobj(src, dst)
 PY
-# 제공 fixture의 APFS GPT 파티션 오프셋만 20480입니다.
+# 제공 fixture 전용 APFS 오프셋: 20480
 ./target/release/lapfs mount-rw work/test.dmg 20480 work/mount work/session-01
 ```
 
-위 명령은 전경 실행합니다. 다른 터미널에서 파일을 쓰고, 열린 파일을 닫은 뒤 `fusermount3 -u work/mount`로 해제합니다. 정상 종료된 session 디렉터리는 새 마운트에 재사용하지 않습니다.
-</details>
+- 실행 모드: 전경
+- 정상 해제: 열린 파일 종료 후 `fusermount3 -u work/mount`
+- 종료 세션 재사용: 불가 · 새 마운트별 새 session 디렉터리
+- 실제 장치: by-id·컨테이너 UUID 등록 · 별도 내부 디스크 복구 경로
+- 장치 절차: [운영·정상 분리·복구 매뉴얼](docs/RECOVERY.md)
 
-실제 장치는 by-id·컨테이너 UUID 등록 및 별도 내부 디스크 복구 경로가 필요합니다. [운영 및 복구 설명](docs/RECOVERY.md)을 먼저 확인하세요. 자동으로 드라이브를 검색해 쓰기 권한을 여는 명령은 제공하지 않습니다.
+### rsync 진행 표시
 
-## 검증 상태
-
-| beta.7 시험 | 결과와 범위 |
+| 환경 | 옵션 |
 |---|---|
-| **중단 이미지 430 / 430** | 318개 I/O 경계 + 112개 부분 NX 기록. DGX 복구 없이 Mac fsck, 원본 104개 SHA와 변경 대상의 이전/새 상태 확인 |
-| **Rust 296개** | 단위·회귀·실제 이미지 복구 시험. 자식 프로세스 전용 2개 항목은 부모 crash 시험에서 실행 |
-| **Mac ↔ Linux 3회** | Mac 기록 → Linux 수정 → Mac fsck·내용·권한 검사 |
-| **FUSE / rsync** | 27개 commit 배치와 rsync 5단계. Mac에서 SHA·mode·나노초 mtime·링크·삭제 결과 확인 |
-| **272,629,778바이트 파일** | 새 512 MiB APFS 이미지에서 여러 할당 영역 기록. Mac fsck·전체 SHA 일치 |
-| **미검증** | 실제 전원 차단·USB 브리지 캐시 신뢰성·TB급 장기 부하·전체 APFS/POSIX 호환 |
+| 공통 진행 표시 | `--progress` |
+| `--info=progress2` | 지원 버전 전용 · Mac 기본 openrsync와 비호환 |
+| 옵션 거부 오류 | 파일 전송 전 중단 · APFS 쓰기 단계 이전 |
 
-[변경 전후 보고서](docs/NATIVE_COW_IMPACT.md) · [바이너리·시험 영수증](docs/validation/native-cow-beta7.json) · [430개 사례 전부](docs/validation/native-cow-beta7-matrix.json)
+## 검증
+
+| beta.7 시험 | 결과·범위 |
+|---|---|
+| **중단 이미지 430 / 430** | I/O 경계 318개 + 부분 NX 기록 112개 · DGX 복구 미사용 · Mac fsck·원본 104개 SHA·이전/새 상태 일치 |
+| **Rust 296개** | 단위·회귀·실제 이미지 복구 · 자식 프로세스 전용 2개 항목: 부모 crash 시험에서 실행 |
+| **Mac ↔ Linux 3회** | Mac 기록 → Linux 수정 → Mac fsck·내용·권한 검사 |
+| **FUSE / rsync** | commit 배치 27개 · rsync 5단계 · Mac SHA·mode·나노초 mtime·링크·삭제 검사 |
+| **272,629,778바이트 파일** | 512 MiB APFS 이미지 · 여러 할당 영역 기록 · Mac fsck·전체 SHA 일치 |
+| **미검증** | 물리 전원 차단 · USB 캐시 거짓 성공 · TB급 장기 부하 · 전체 APFS/POSIX 호환 |
+
+[변경 전후 보고서](docs/NATIVE_COW_IMPACT.md) · [바이너리·시험 영수증](docs/validation/native-cow-beta7.json) · [430개 사례](docs/validation/native-cow-beta7-matrix.json)
 
 <details>
-<summary>이전 베타의 물리 장치·호환성 검사</summary>
+<summary>이전 베타 · 실장치 기록</summary>
 
-beta.5의 선택한 Corsair 장치에서는 rsync 5단계, 다섯 연구 루트의 이름 순회(디렉터리 17,368개·파일 397,593개·링크 388개), 이전 EIO 795개 경로 재검사를 통과했습니다. beta.3/4에서는 약 1 TB 장치의 8 MiB 파일 쓰기·fsync·해제·재마운트·삭제를 확인했습니다.
-
-이는 해당 빌드·장치의 기록이며 beta.7의 물리 전원 차단 시험이 아닙니다. [빌드별 전체 기록](docs/VALIDATION.md) · [beta.6 정상 분리 시험](docs/HANDOFF_AFTER.md)
+- beta.5 / Corsair: rsync 5단계 · 이름 순회 오류 0건
+- 순회 범위: 디렉터리 17,368개 · 파일 397,593개 · 링크 388개
+- EIO 재검사: 795개 경로 통과
+- beta.3/4 / 약 1 TB 장치: 8 MiB 파일 쓰기·fsync·해제·재마운트·삭제
+- 적용 범위: 해당 빌드·장치 · beta.7 전원 차단 검증 아님
+- 기록: [전체 이력](docs/VALIDATION.md) · [beta.6 정상 분리](docs/HANDOFF_AFTER.md)
 
 </details>
 
-## 현재 지원하지 않는 것
+## 지원 제한
 
-- 암호화 볼륨 쓰기, 다중 볼륨 컨테이너, 스냅샷, CAB 간접 할당 구조 등 지원하지 않는 allocator layout.
-- clone/hardlink/shared/compressed/sparse/특수 파일 변경, 다른 소유자로의 chown 및 미검증 xattr/ACL 변경. `rsync -a`는 일반 파일·디렉터리·심볼릭 링크와 현재 사용자 소유권 범위에서 검증했습니다.
-- 디렉터리 rename과 비어 있지 않은 폴더의 직접 제거, 다른 폴더 간 rename, 열린 파일 삭제·열린 목적지 교체. 빈 폴더의 `rmdir`은 지원합니다.
-- 다른 소유자로의 `chown`, 임의 xattr/ACL 변경, hardlink 생성, writable mmap. 일반 파일 `chmod`·atime/mtime과 심볼릭 링크 생성/삭제는 지원합니다.
-- 새 크기 **8 MiB 초과 truncate**. 큰 파일 복사·append·범위 쓰기의 파일 크기 제한과는 다릅니다.
-- `cp -a`, 데이터베이스, 임의 앱 저장 프로토콜 전체의 호환성 보장.
+- 볼륨: 암호화 쓰기 · 다중 볼륨 · 스냅샷 · CAB 간접 할당 등 미지원 구조
+- 변경 대상: clone/hardlink/shared/compressed/sparse/특수/immutable/append-only 파일
+- 파일 작업: 다른 폴더 간 rename · 디렉터리 rename · 열린 파일 삭제·목적지 교체
+- 폴더 제거: 비어 있지 않은 폴더의 직접 제거 미지원 · 빈 폴더 rmdir 지원
+- 권한·메타데이터: 다른 소유자로의 chown · 임의 xattr/ACL 변경 · hardlink 생성
+- 기타: writable mmap · 8 MiB 초과 새 크기로 truncate
+- 큰 파일: 복사·append·범위 쓰기에 8 MiB 전체 파일 제한 없음
+- `rsync -a`: 일반 파일·디렉터리·심볼릭 링크 · 현재 사용자 소유권 범위
+- 미보장: 전체 `cp -a` 메타데이터 · 데이터베이스 · 임의 앱 저장 프로토콜
 
-## 문서와 소스
+상세: [지원·미검증 범위](docs/LIMITATIONS.md)
+
+## 디렉터리
 
 ```text
 src/                 CLI · 읽기 · 영구 큐 · 복구 저널 · FUSE · 오류 로그
-vendor/              수정된 APFS crates와 fuser
-dependencies/       Cargo.lock의 registry 의존성 원본
-tests/              Rust 회귀 / Linux FUSE / macOS 독립 검증
-fixtures/           합성 APFS 이미지와 예상 파일 해시
-docs/               HTML 가이드 · SVG 구조도 · 복구 · 제한 · 시험 증거
+vendor/              수정된 APFS crates · fuser
+dependencies/        Cargo.lock registry 의존성 원본
+tests/               Rust 회귀 · Linux FUSE · macOS 독립 검사
+fixtures/            합성 APFS 이미지 · 예상 파일 해시
+docs/                HTML 매뉴얼 · SVG/PNG 구조도 · 복구 · 제한 · 증거
 ```
 
-## 라이선스와 출처
+## 라이선스·출처
 
-**GPL-3.0-only** — [LICENSE](LICENSE). APFS 구현은 [apfs-explorer](https://github.com/enesilhaydin/apfs-explorer)의 고정 커밋을 기반으로 수정했습니다. FUSE 계층은 MIT 라이선스의 [fuser](https://github.com/cberner/fuser)를 사용합니다. [변경·출처 기록](UPSTREAM.md), [전체 의존성 고지](THIRD_PARTY_NOTICES.md)를 함께 제공합니다.
-
-재배포 시 해당 라이선스·저작권 고지와 대응 소스를 보존하세요. 이 프로젝트는 Apple 또는 NVIDIA와 제휴하거나 이들의 인증을 받은 제품이 아닙니다.
+| 구분 | 내용 |
+|---|---|
+| 프로젝트 | **GPL-3.0-only** · [LICENSE](LICENSE) |
+| APFS 기반 | [apfs-explorer](https://github.com/enesilhaydin/apfs-explorer) 고정 커밋 · 수정본 |
+| FUSE | [fuser](https://github.com/cberner/fuser) · MIT |
+| 변경·출처 | [UPSTREAM.md](UPSTREAM.md) |
+| 의존성 고지 | [THIRD_PARTY_NOTICES.md](THIRD_PARTY_NOTICES.md) |
+| 재배포 | 해당 라이선스·저작권 고지·대응 소스 보존 |
+| 제휴·인증 | Apple/NVIDIA 제휴·인증 없음 |

diff --git a/docs/README_VISUALS.md b/docs/README_VISUALS.md
@@ -20,3 +20,9 @@ Visual inspection: 1440px desktop and390px portrait screenshots reviewed. SVG ti
 Evidence values are unchanged:430 native interruption cases,296 Rust tests,3 Mac/Linux cycles,272,629,778-byte multi-chunk file. Diagrams explicitly distinguish conceptual block counts, design assumptions, external queue durability and unqualified hardware power cuts.
 
 Changed artifacts only: README.md, docs/architecture.html, docs/assets/lapfs-{banner,architecture,checkpoint}.{svg,png}, docs/validation/readme-visuals.json and this report. Published writer SHA remains dccc7cead3774b9b1d247c3ac2e1334fdfa114e44e70dab087f158da52fb3b32; no remount, device writes, scheduler or research data changes. Existing beta.7 code archives are retained and a separate visual documentation bundle is added.
+
+## Manual terminology revision
+
+User correction: noun-first manual labels; no conversational headings or promotional sentences. README converted to specifications, tables and operation lists. SVG/HTML titles changed to storage location, interruption states, write stages and validation scope. All four interactive state descriptions converted to labeled terms. Desktop/mobile interaction, SVG bounds and static fallback checks rerun. PNG exports regenerated from the revised SVGs.
+
+Transfer-option observation: Mac openrsync protocol29 / rsync2.6.9 compatibility; DGX rsync3.2.7. Mac `--progress --version` accepted. README now identifies `--progress` as the portable progress option and `--info=progress2` as version-dependent; no transfer or filesystem changes.
